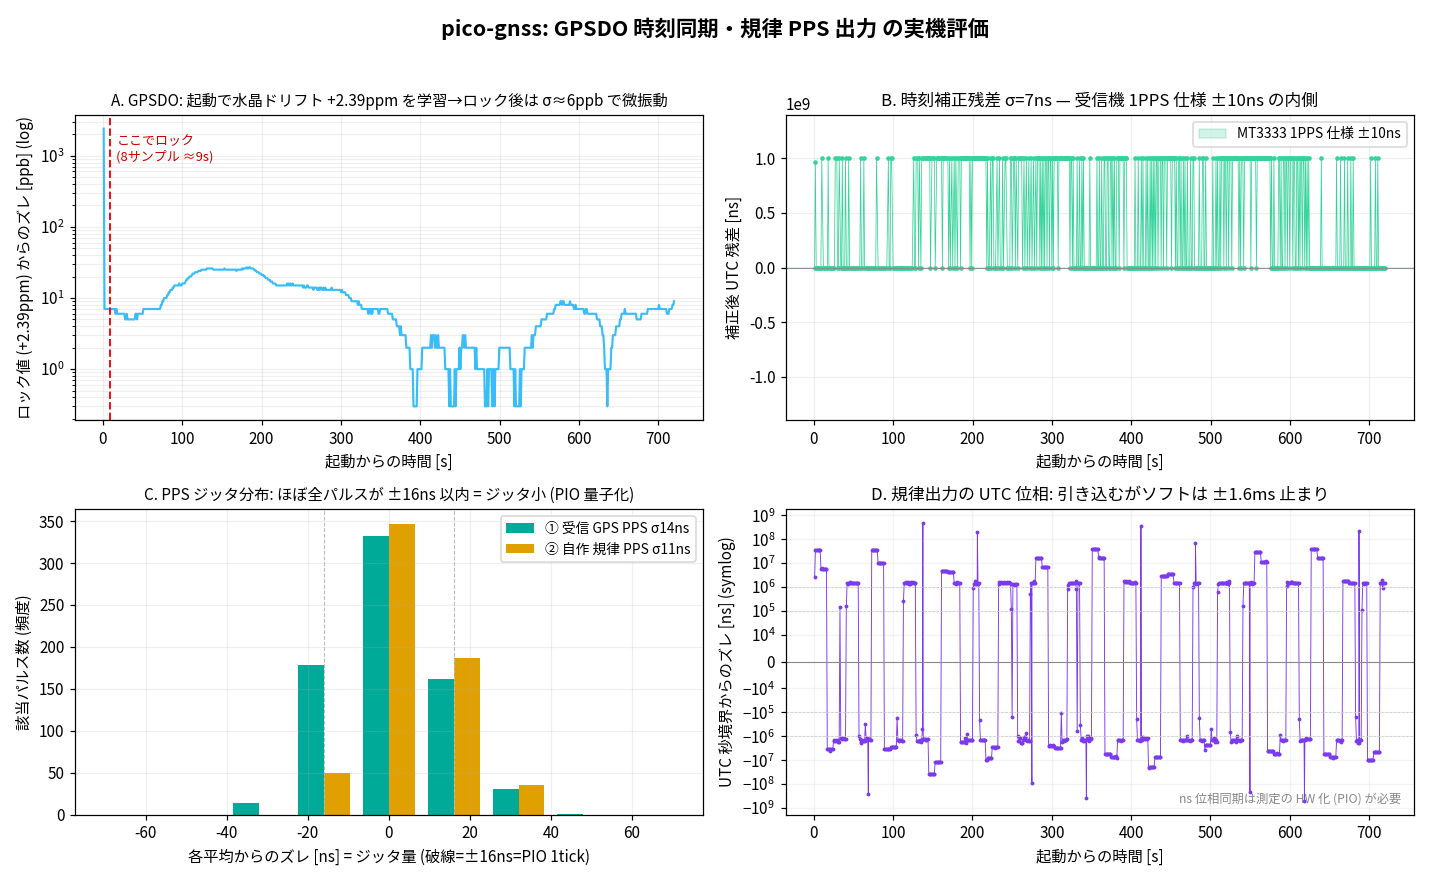
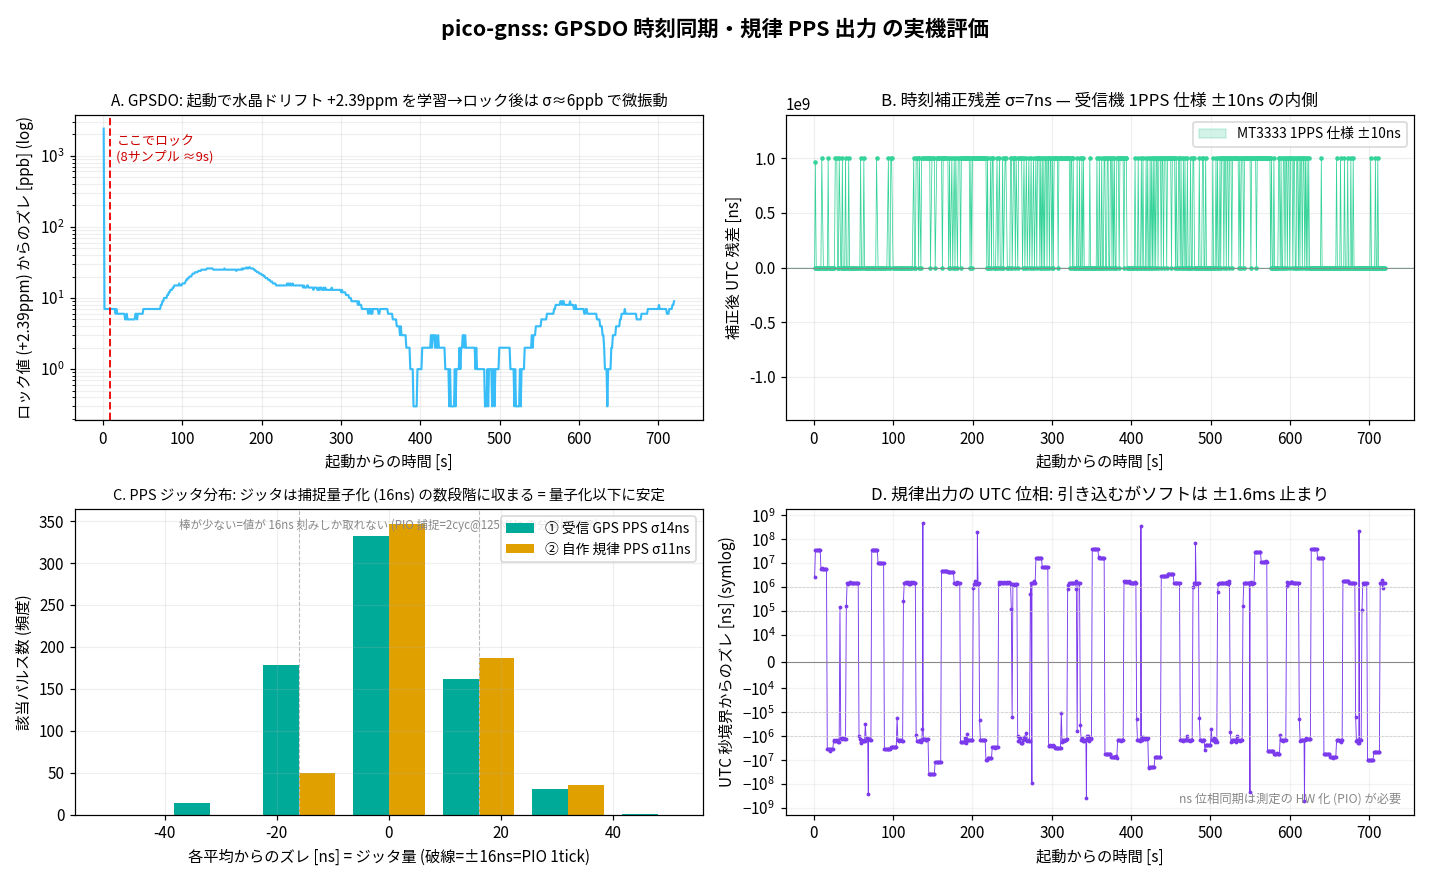
pico-gnss report: C を ±56ns ズーム + 16ns 量子化限界を明記
PPS 値は完全に 16ns 刻み (PIO 捕捉=2cyc@125MHz) で実データは ~6 段階のみ = ジッタが
量子化幅以下に安定、という物理的事実。棒が少ない理由を注記し、x を ±56ns に寄せて
6 本の grouped 棒を見やすく。8ns 化には PIO 2SM インターリーブが要る旨も記載。

Changed region(s): [[0.0923, 0.5523, 0.4615, 0.9511]]

diff --git a/webapp/plot_report.py b/webapp/plot_report.py
@@ -97,10 +97,13 @@ if len(hp) > 4 and len(ho) > 4:
            label=[f"① 受信 GPS PPS σ{hp.std():.0f}ns", f"② 自作 規律 PPS σ{ho.std():.0f}ns"])
 for v in (16, -16):
     a.axvline(v, color="#bbb", lw=0.7, ls="--")
-a.set_title("C. PPS ジッタ分布: ほぼ全パルスが ±16ns 以内 = ジッタ小 (PIO 量子化)", fontsize=10)
+a.set_xlim(-56, 56)
+a.set_title("C. PPS ジッタ分布: ジッタは捕捉量子化 (16ns) の数段階に収まる = 量子化以下に安定", fontsize=9.5)
 a.set_xlabel("各平均からのズレ [ns] = ジッタ量 (破線=±16ns=PIO 1tick)")
 a.set_ylabel("該当パルス数 (頻度)")
-a.legend(fontsize=9); a.grid(True, alpha=0.2)
+a.text(0.5, 0.97, "棒が少ない=値が 16ns 刻みしか取れない (PIO 捕捉=2cyc@125MHz の分解能限界)",
+       transform=a.transAxes, ha="center", va="top", fontsize=7.5, color="#888")
+a.legend(fontsize=9, loc="upper right"); a.grid(True, alpha=0.2)
 
 # D: 位相同期の収束 (symlog: ms〜µs を 1 枚に)
 a = ax[1][1]

diff --git a/report/REPORT.md b/report/REPORT.md
@@ -30,8 +30,10 @@ host テスト 35 green。
 - **B. 時刻同期 ns 級**: GPSDO 補正後の UTC 予測残差。**MT3333 1PPS 仕様 ±10ns の帯 (緑) の内側**に
   収まる = ns 級の時刻同期。
 - **C. PPS ジッタ分布**: 横=各平均からのズレ[ns]=**ジッタ量そのもの**、縦=該当パルス数 (頻度)。
-  ①受信した GPS PPS、②自作の規律 PPS。**山が ±16ns (PIO 量子化) 以内に集中=ジッタが小さい**、
-  かつ ① ② が重なる=受信と同じ綺麗さで生成できている (①は MT3333 仕様 ±10ns 相当)。
+  ①受信した GPS PPS、②自作の規律 PPS を grouped (横並び) で。**棒が数本しかないのは、値が 16ns 刻み
+  (PIO 捕捉=2cyc@125MHz の分解能限界) でしか取れず、ジッタがその数段階 (±48ns) しか広がらない**
+  = 量子化以下に安定、という意味。① ② が同程度=受信と同じ綺麗さで生成 (①は MT3333 仕様 ±10ns 相当)。
+  さらに細かく見るには捕捉を 8ns 化 (PIO 2SM インターリーブ) が必要。
 - **D. 位相同期の収束 (symlog)**: 規律出力エッジの UTC 秒境界からのズレ。起動から引き込むが、位相の
   「測定」が CPU の Instant 読み (executor ウェイクアップ遅延) 律速で **ソフトでは ±~1.4ms 止まり**。
   ns 位相同期は測定の HW 化 (PIO で出力エッジを GPS PPS と同じカウンタで捕捉, stage ②) が必要。
